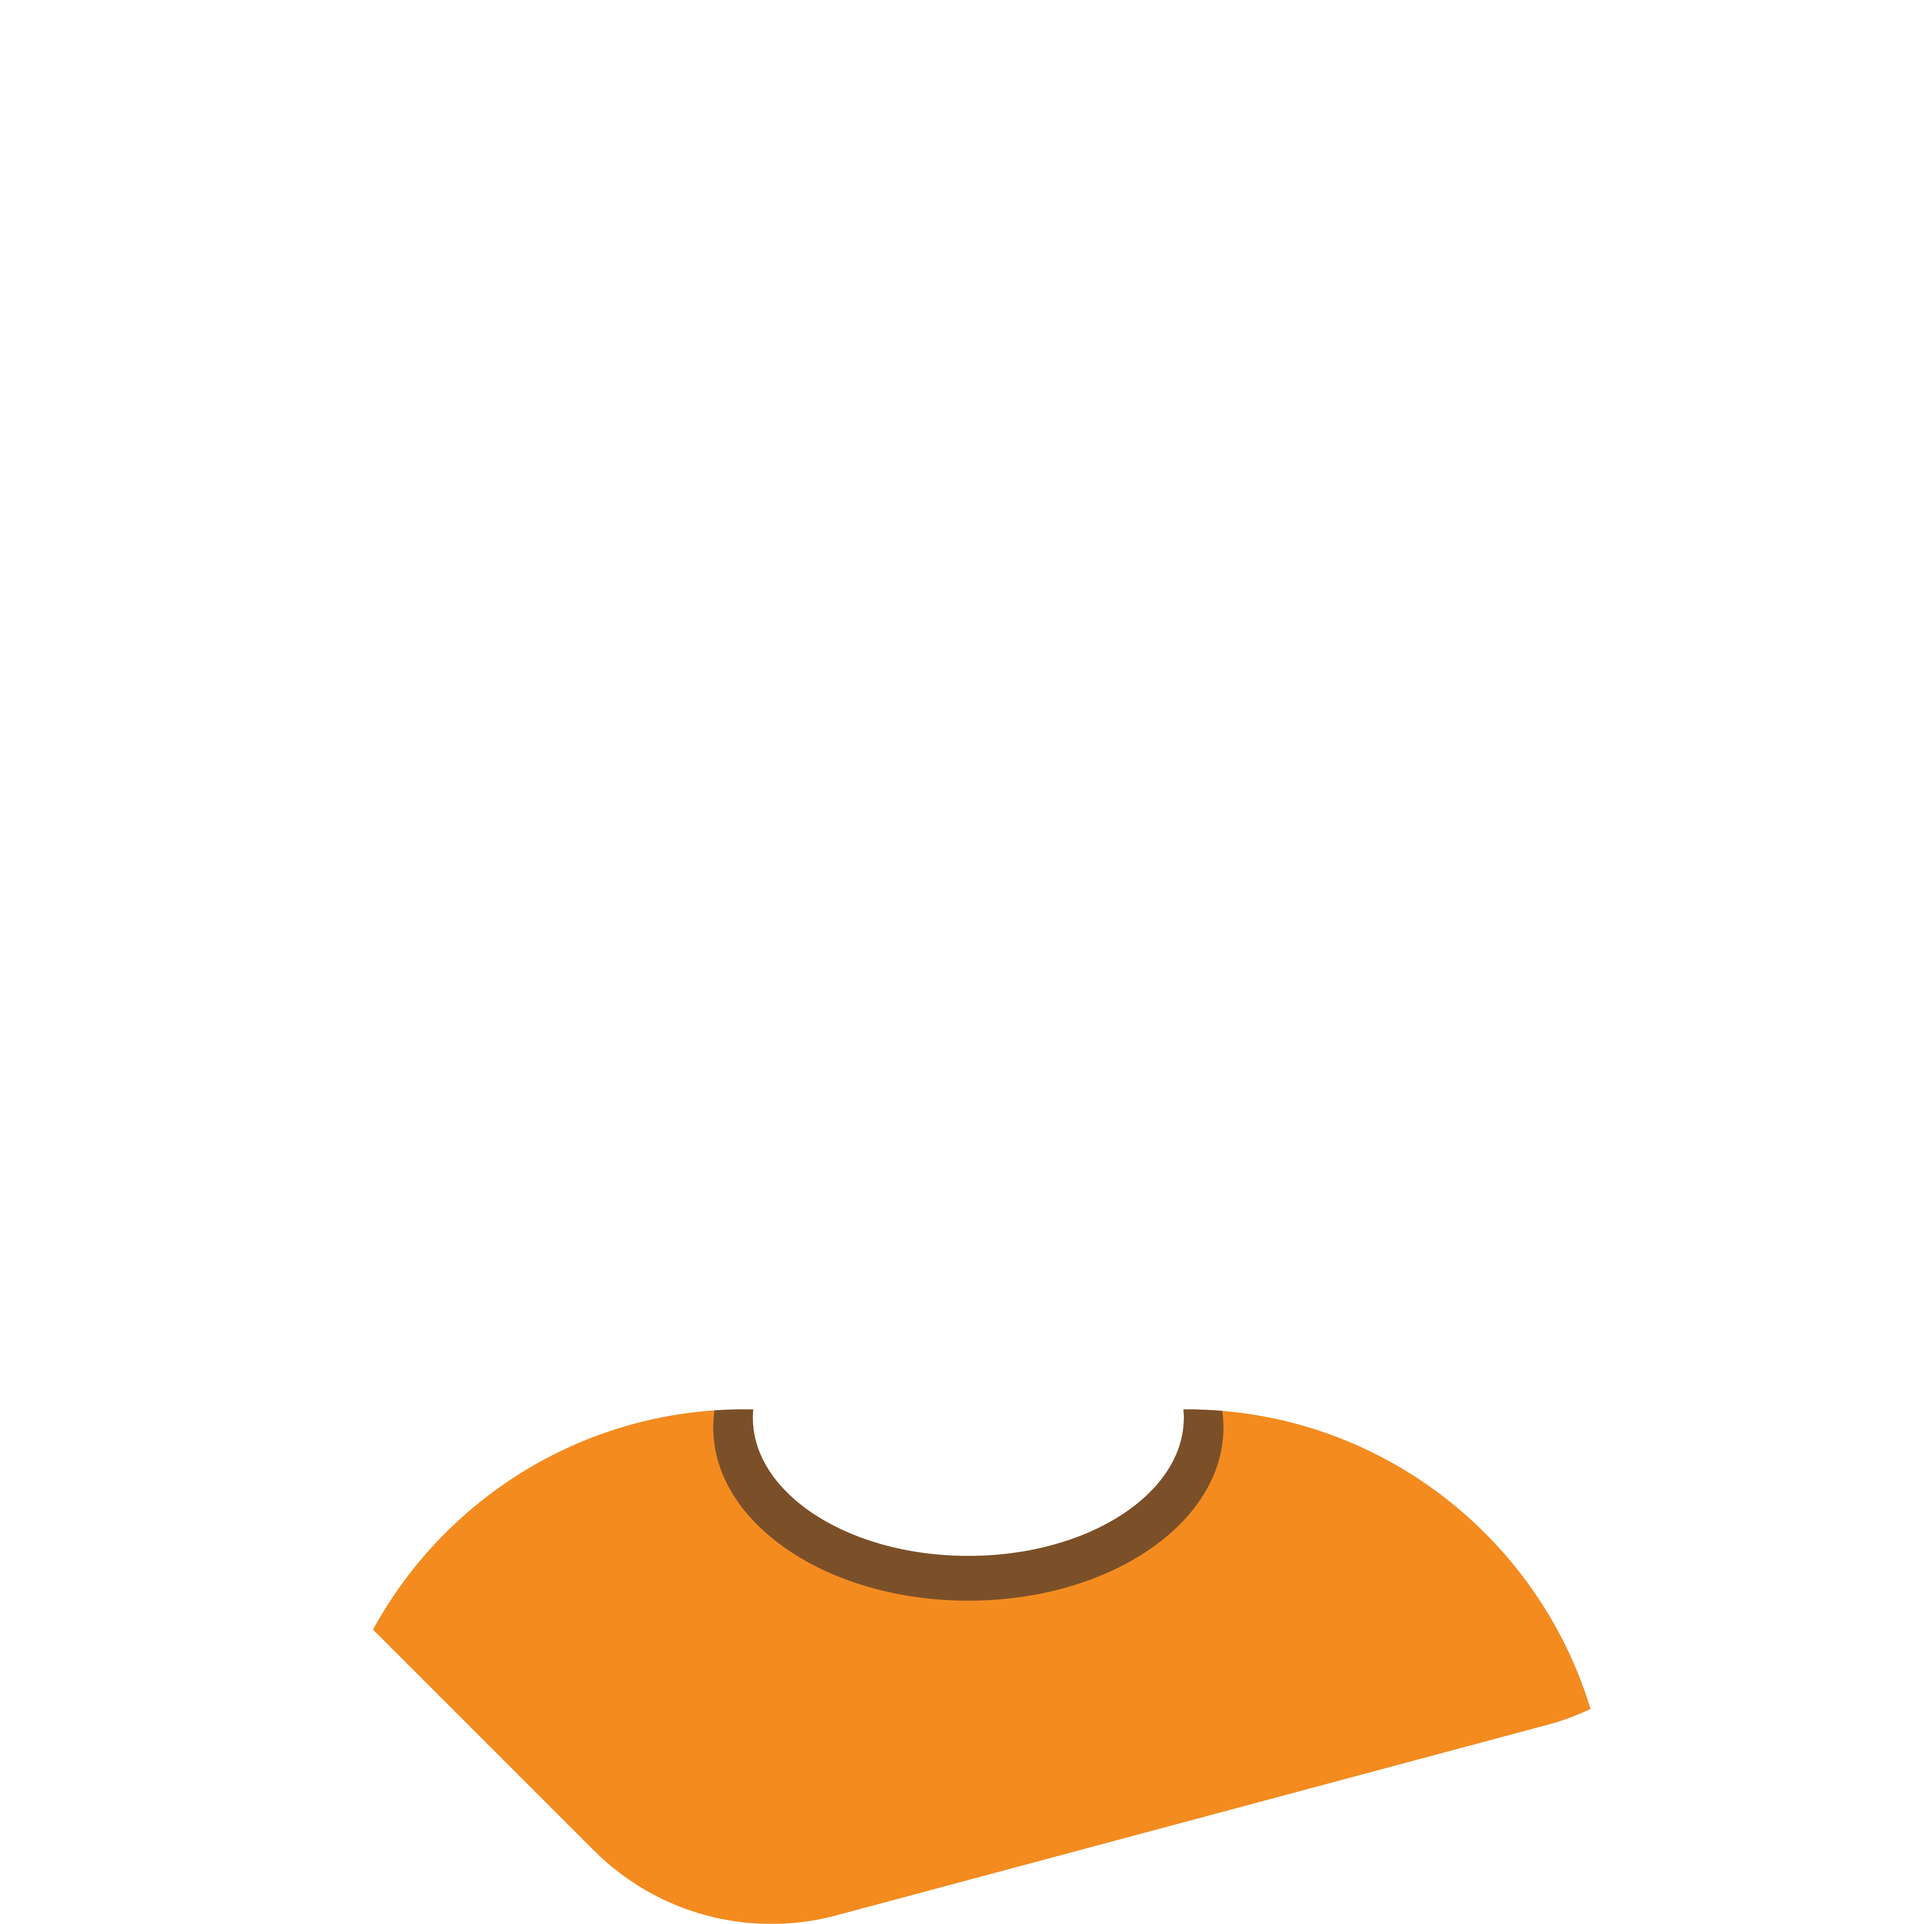
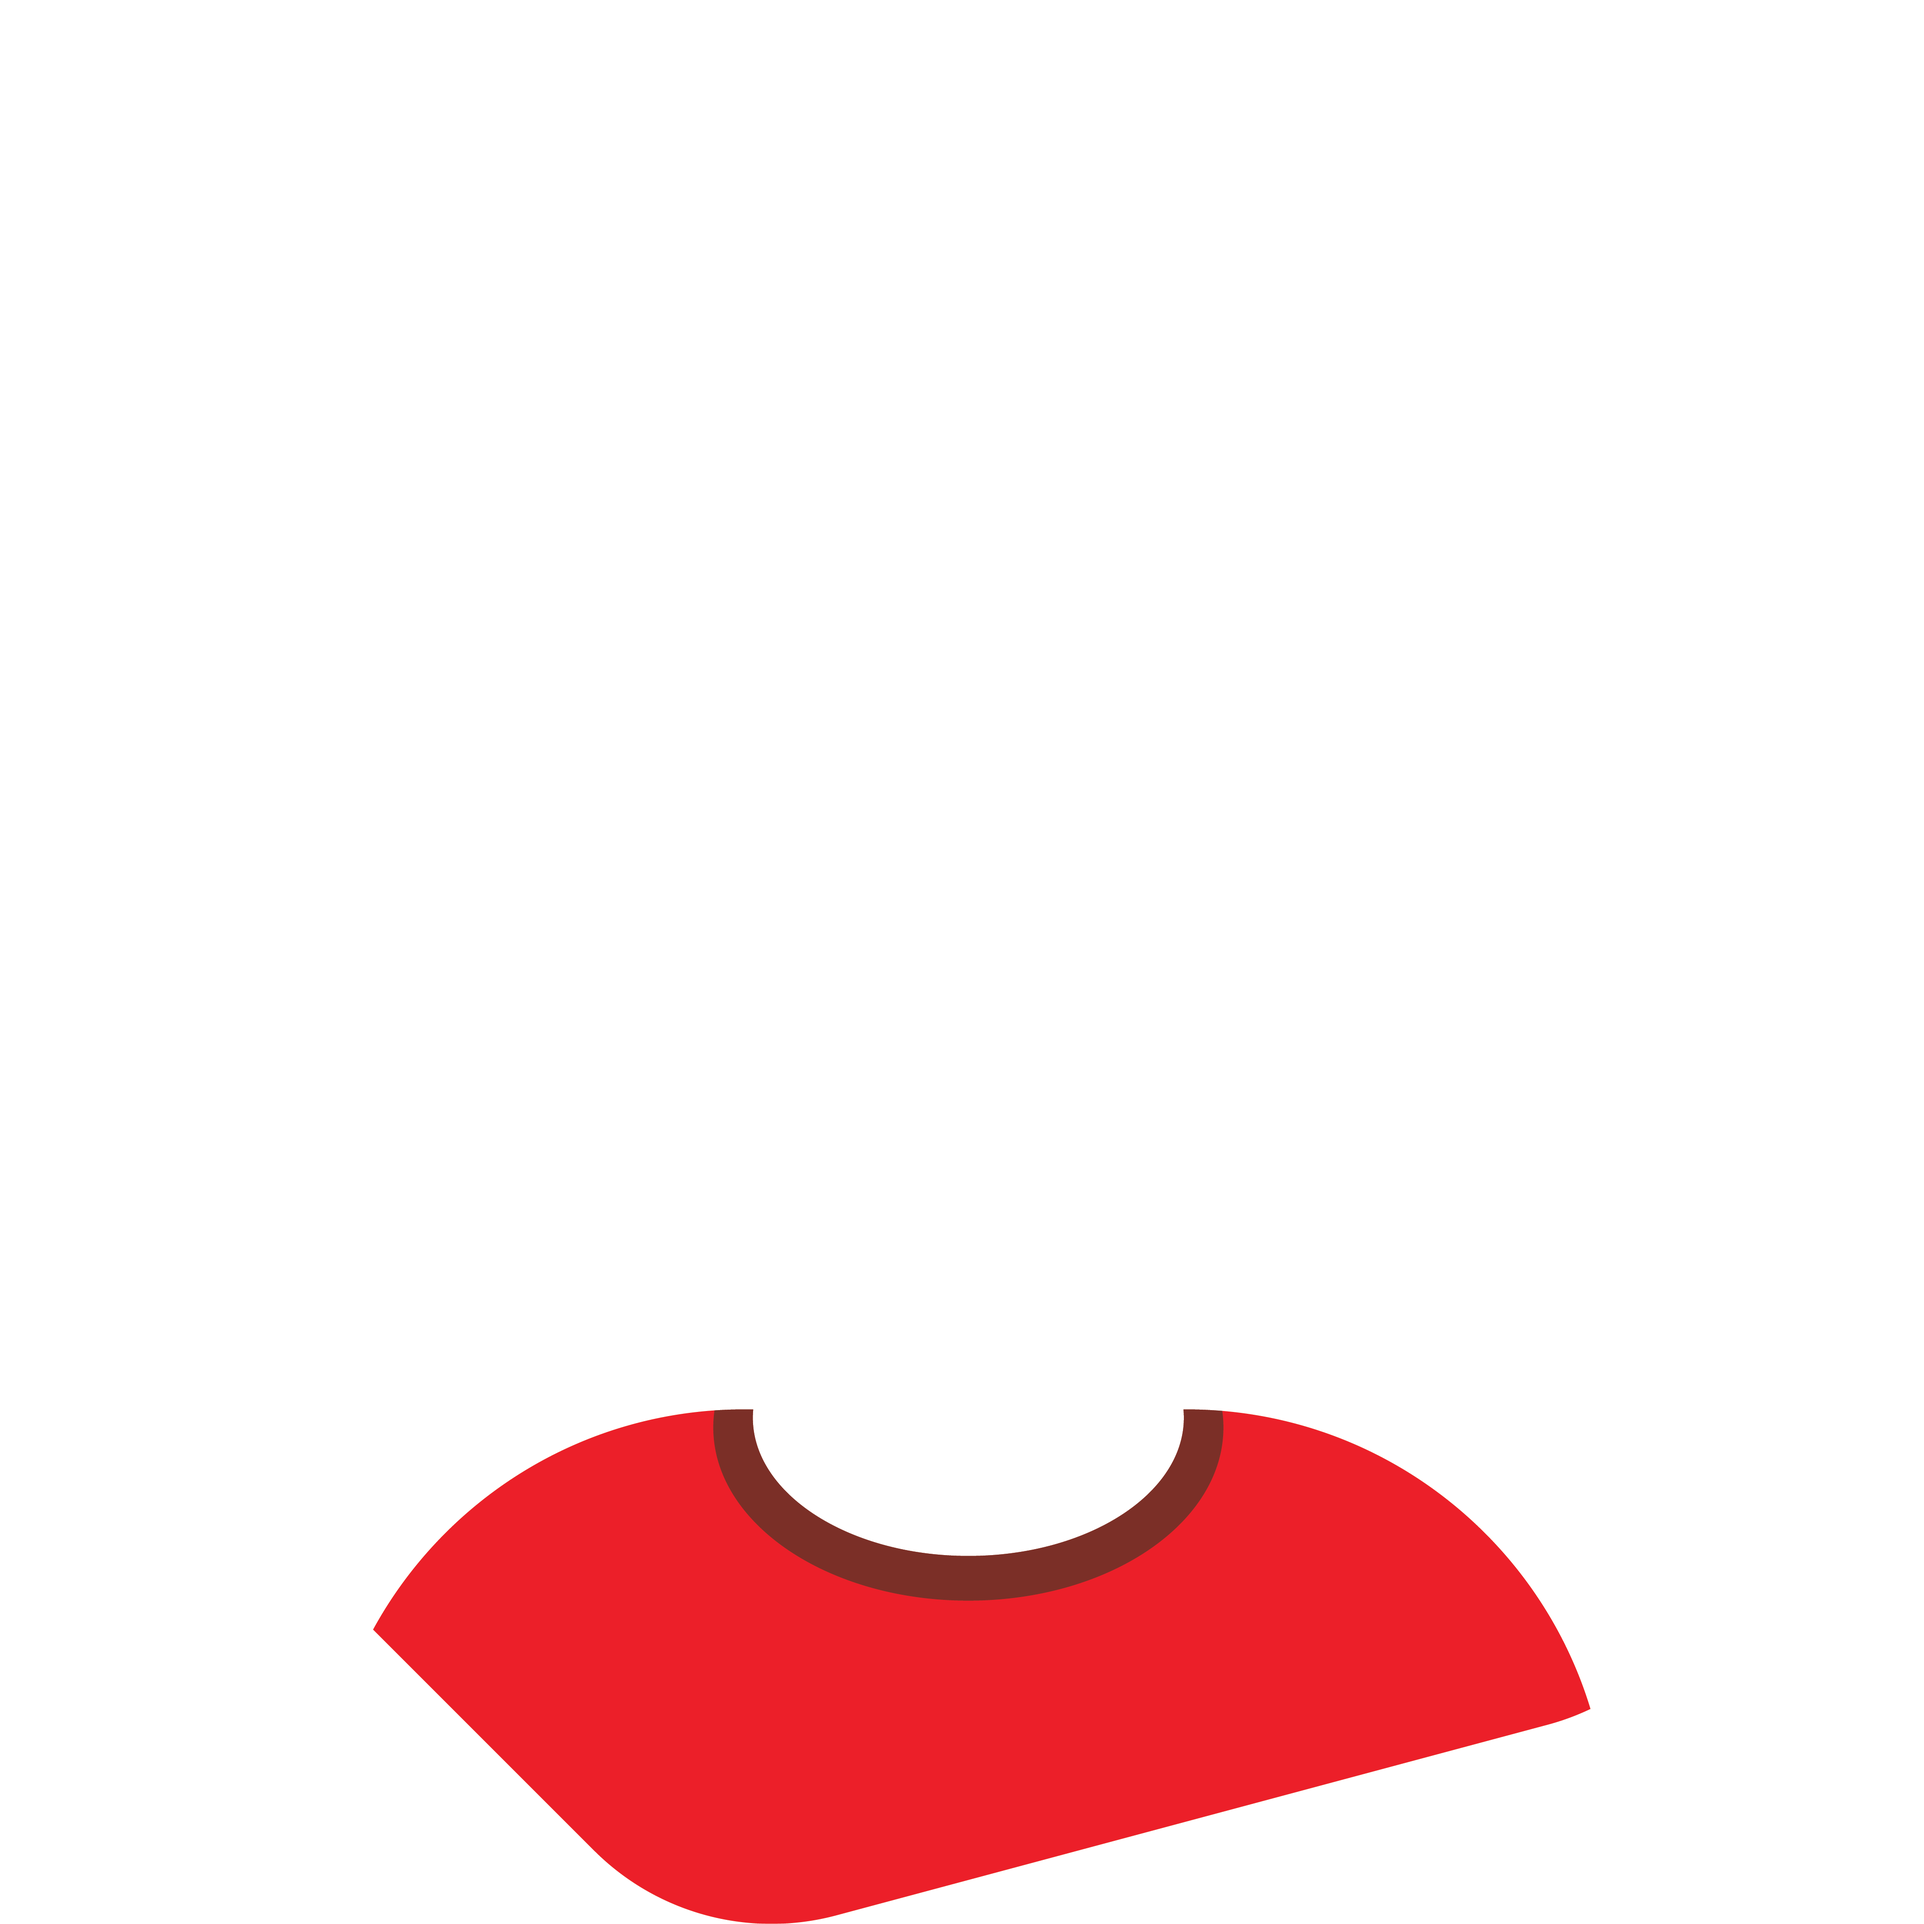
England 1000 done

Changed region(s): [[0.1872, 0.7175, 0.8423, 1.0]]

diff --git a/src/config.js b/src/config.js
@@ -5,15 +5,15 @@ const { NETWORK } = require(`${basePath}/constants/network.js`);
 const network = NETWORK.eth; // change to .sol if use solana
 
 // General metadata for Ethereum
-const namePrefix = "BSport - Netherlands";
+const namePrefix = "BSport - England";
 const description =
   "BasementSports is a collection of 32,000 unique BSport NFTs - living on the Polygon Blockchain.";
 const baseUri = "######";
 
 // If you have selected Solana then the collection starts from 0 automatically
 
-const JERSY_NUMBERS_FOR_20_EACH = [4, 8, 9, 10, 12];
-const JERSY_NUMBERS_FOR_30_EACH = [1, 2, 3, 5, 6, 7, 11, 13, 14, 15];
+const JERSY_NUMBERS_FOR_20_EACH = [4, 6, 8, 9, 10];
+const JERSY_NUMBERS_FOR_30_EACH = [1, 2, 3, 5, 7, 11, 12, 13, 14, 15];
 const JERSY_NUMBERS_FOR_40_EACH = [
   16, 17, 18, 19, 20, 21, 22, 23, 24, 25, 26, 27, 28, 29, 30,
 ];
